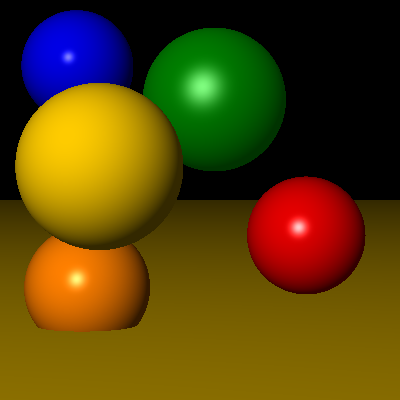
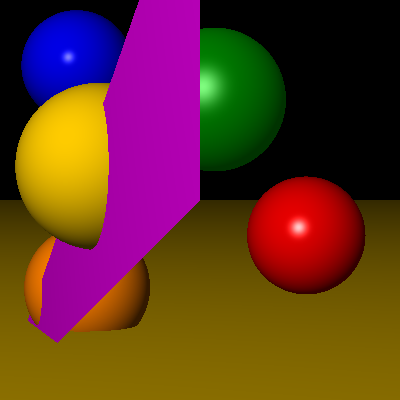
Triangulo Bala

Changed region(s): [[0.06, 0.0, 0.51, 0.87]]

diff --git a/raytracer.cpp b/raytracer.cpp
@@ -16,6 +16,7 @@
 #include "object.h"
 #include "sphere.h"
 #include "plane.h"
+#include "triangle.h"
 #include "material.h"
 #include "light.h"
 #include "image.h"
@@ -87,6 +88,16 @@ Object* Raytracer::parseObject(const YAML::Node& node)
         node["normal"] >> normal;
         Plane *plane = new Plane(q_point, normal);
         returnObject = plane;
+    }
+    
+    if (objectType == "triangle")
+    {
+        Point point1, point2, point3;
+        node["point1"] >> point1;
+        node["point2"] >> point2;
+        node["point3"] >> point3;
+        Triangle *triangle = new Triangle(point1, point2, point3);
+        returnObject = triangle;
     }
 
     if (returnObject) {
